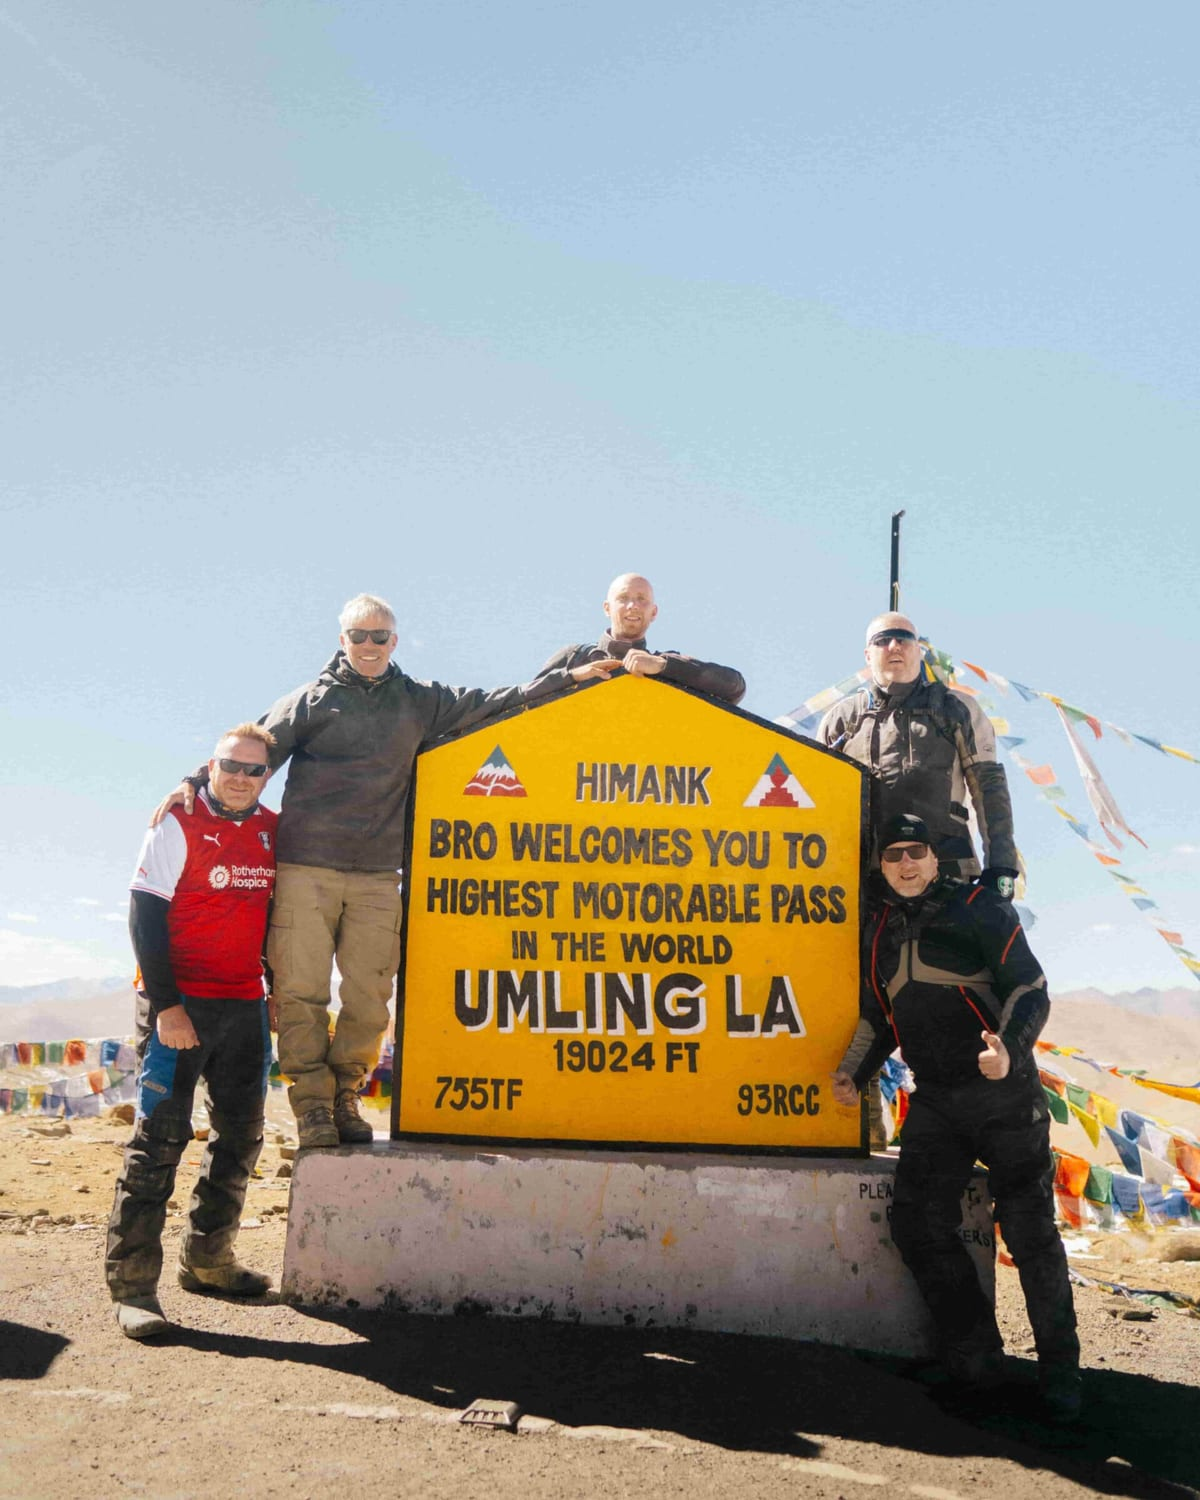
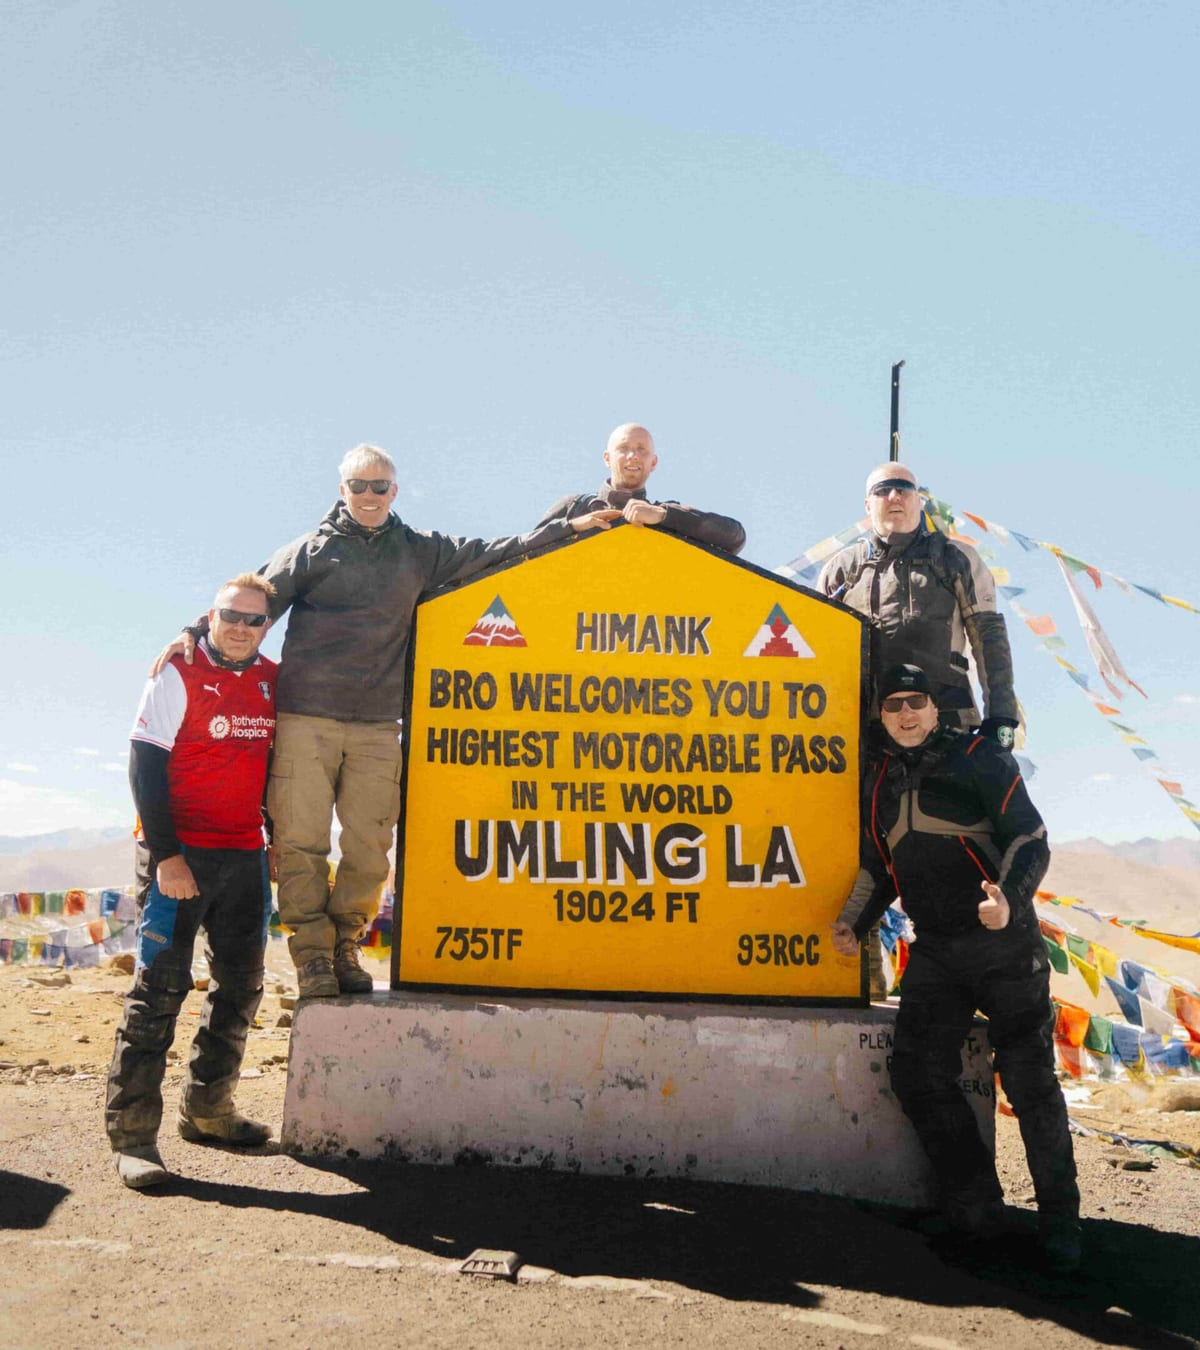
Drop flagless dial codes, settle tour card height
Ascension Island and Tristan da Cunha have no flag on flagcdn, so the picker
rendered a broken image beside them. The generator now filters against
flagcdn's own code list rather than removing the two by hand, which keeps
any future regeneration correct. 243 countries remain.

Tour cards were too tall at a flat 4:5. The frame now steps with the layout:
4:5 while the grid is one column on phones, 3:2 in the single wide column,
and 1:1 once the grid splits in two from md. Desktop lands at 532px with
408px of image above the plate, between the 285px that cropped the riders
and the 541px that overshot.

Photographs re-cropped to 8:9, which sits between the two ratios so neither
breakpoint crops more than about 11 percent.

diff --git a/src/config/dial-codes.ts b/src/config/dial-codes.ts
@@ -1,12 +1,14 @@
-// Generated from libphonenumber-js. Do not edit by hand.
-// Regenerate with the script in the commit that introduced this file.
+// Generated from libphonenumber-js, filtered against flagcdn's supported list.
+// Do not edit by hand.
 //
-// Only the map ships to the browser. libphonenumber-js stays a devDependency,
+// Only this map ships to the browser. libphonenumber-js stays a devDependency,
 // which keeps its metadata (roughly 28kb gzipped) out of the client bundle
 // while the codes themselves stay accurate.
+//
+// Excluded: AC, TA. flagcdn serves no flag for them, so the
+// picker would show a broken image next to the dial code.
 
 export const dialCodes: Record<string, string> = {
-  AC: "247",
   AD: "376",
   AE: "971",
   AF: "93",
@@ -215,7 +217,6 @@ export const dialCodes: Record<string, string> = {
   SX: "1",
   SY: "963",
   SZ: "268",
-  TA: "290",
   TC: "1",
   TD: "235",
   TG: "228",

diff --git a/src/components/home/UpcomingTours.tsx b/src/components/home/UpcomingTours.tsx
@@ -68,7 +68,9 @@ export async function UpcomingTours() {
             <li key={tour.key}>
               <div data-anim="up">
                 <article className="group relative overflow-hidden rounded-[26px] ring-1 ring-brand-900/10">
-                  <div className="relative aspect-[4/5]">
+                  {/* Steps down as the card widens: one column on phones needs the
+                      tallest frame, two columns from md do not. */}
+                  <div className="relative aspect-[4/5] sm:aspect-[3/2] md:aspect-[1/1]">
                     <Image
                       src={tour.image}
                       alt={tt(`${tour.key}.name`)}
